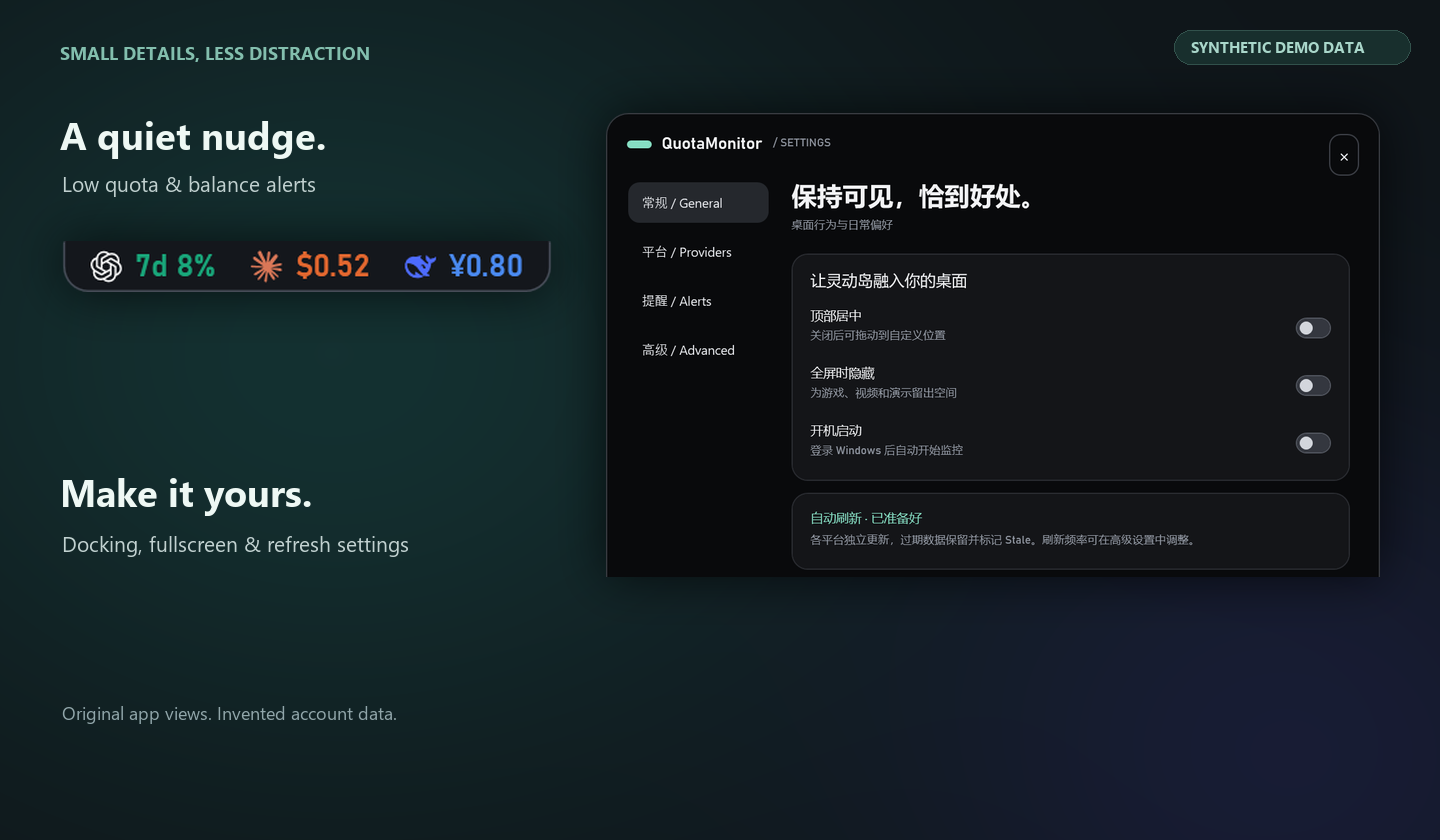
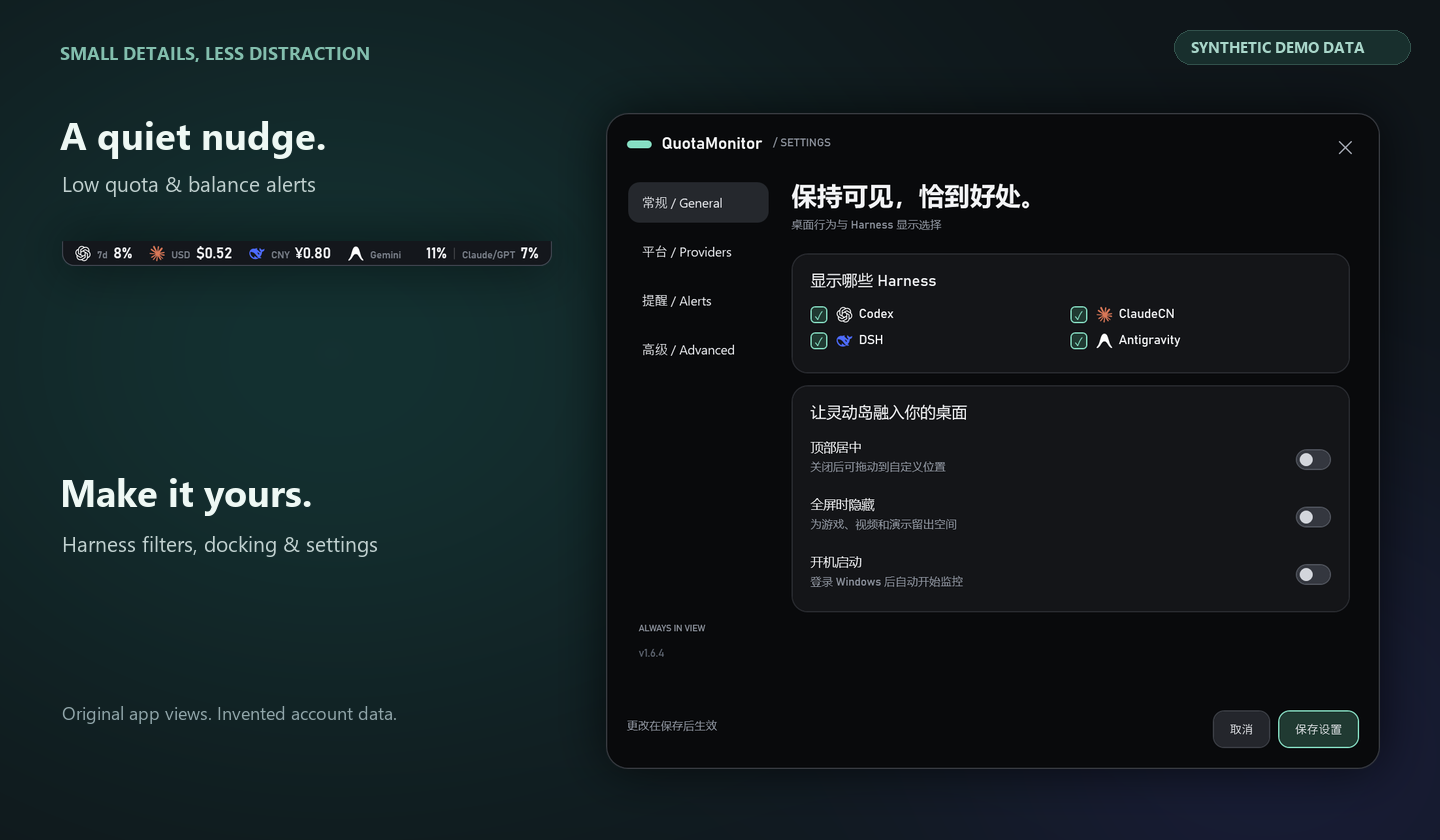
Refresh bilingual README artwork for v1.6.4

diff --git a/tools/QuotaMonitor.Showcase/Program.cs b/tools/QuotaMonitor.Showcase/Program.cs
@@ -36,19 +36,19 @@ public static class Showcase
     }
     static async Task Generate(string root,string output)
     {
-        var vm=new MonitorViewModel();var now=DateTimeOffset.UtcNow;var today=new DateOnly(2026,10,14);
+        var vm=new MonitorViewModel();var now=DateTimeOffset.UtcNow;var today=DateOnly.FromDateTime(DateTime.Now);
         var settings=new MonitorSettings{TopCenter=false,Left=50,Top=50,HideInFullscreen=false,AutoStart=false,ClaudeUserId="",CodexExecutable="codex",DshSessionRoot=""};
         foreach(var id in UsageGrid.Order){
-            vm.Providers.Add(new(new ProviderSnapshot{ProviderId=id,DisplayName=id=="codex"?"Codex":id=="claude"?"ClaudeCN":"DSH",ConnectionStatus=ConnectionStatus.Ready,
+            vm.Providers.Add(new(new ProviderSnapshot{ProviderId=id,DisplayName=MonitorViewModel.NameOf(id),ConnectionStatus=ConnectionStatus.Ready,
                 LastUpdated=now,UsageUpdated=now,RemainingPercent=72,RemainingBalance=18.50m,Currency="USD",TodayTokens=284000,TotalTokens=8600000,TodayRequests=42,TodayCost=.42m,TotalCost=12.80m,
-                InputTokens=240000,OutputTokens=44000,CurrentModel="deepseek-v4",DataSource="Synthetic showcase",
-                Windows=id=="codex"?[new("codex","Primary",28,300,now.AddHours(2)),new("codex","Weekly",38,10080,now.AddDays(3))]:[],
+                InputTokens=240000,OutputTokens=44000,CurrentModel="synthetic-model",DataSource="Synthetic showcase",
+                Windows=id=="codex"?[new("codex","Primary",28,300,now.AddHours(2)),new("codex","Weekly",38,10080,now.AddDays(3))]:id=="antigravity"?[new("gemini-weekly","Gemini",32,10080,now.AddDays(4)),new("3p-weekly","Claude/GPT",54,10080,now.AddDays(5))]:[],
                 AccountBalance=id=="dsh"?new(new([new("CNY","42.80")],[new("CNY","5.00")],now,"synthetic showcase"),DshBalanceState.Ready,null):null}));
             var lane=UsageGrid.Order.ToList().IndexOf(id);
             vm.UpdateHistory(new(){ProviderId=id,Source="Synthetic showcase",Scope="Invented daily aggregates",CostCurrency=id=="dsh"?"CNY":"USD",CoverageStart=today.AddDays(-180),
                 Days=Enumerable.Range(0,181).Select(i=>new UsageDay(today.AddDays(i-180),i%11==0?0:(long)(800*Math.Pow(1.034,i%120)*(1+(i*7+lane*13)%17)),(i*3+lane)%50,.03m*(i%9),UsageQuality.Exact,now)).ToArray()},today);
         }
-        vm.Rebuild(today);vm.SettingsCommand=vm.RefreshCommand=vm.ExitCommand=new ActionCommand(()=>{});
+        vm.Rebuild(today);vm.ApplyVisibility(settings,today);vm.SettingsCommand=vm.RefreshCommand=vm.ExitCommand=new ActionCommand(()=>{});
         var window=new IslandWindow(vm,settings,()=>{});
         typeof(IslandWindow).GetProperty("VerificationSuspendsPointer",BindingFlags.Instance|BindingFlags.NonPublic)!.SetValue(window,true);
         window.Show();await Task.Delay(350);
@@ -66,6 +66,7 @@ public static class Showcase
         vm.Codex.Update(vm.Codex.Snapshot with{RemainingPercent=12,Windows=[new("codex","Primary",88,300,now.AddHours(2)),new("codex","Weekly",92,10080,now.AddDays(3))]});
         vm.Claude.Update(vm.Claude.Snapshot with{RemainingBalance=.52m});
         vm.Dsh.Update(vm.Dsh.Snapshot with{AccountBalance=new(new([new("CNY","0.80")],[],now,"synthetic showcase"),DshBalanceState.Ready,null)});
+        vm.Antigravity.Update(vm.Antigravity.Snapshot with{Windows=[new("gemini-weekly","Gemini",89,10080,now.AddDays(4)),new("3p-weekly","Claude/GPT",93,10080,now.AddDays(5))]});
         vm.UpdateAlerts(settings,now);window.SetState(IslandState.Minimal,false);await Task.Delay(180);Capture(window,Path.Combine(output,"alerts.png"));window.Close();
         using var http=new HttpClient(new OfflineHandler());
         var store=new SettingsStore(Path.Combine(output,"empty-store"));

diff --git a/tools/compose-showcase.py b/tools/compose-showcase.py
@@ -28,17 +28,18 @@ def paste(im,shot,width,xy,crop=True):
     im.paste(shot,xy,shot);return shot.size
 hero=backdrop(1440,990);text(hero,(64,42),'QUOTAMONITOR / WINDOWS',17,'#83bfae',True);stamp(hero)
 text(hero,(64,103),'Your AI usage, at a glance.',47,'#eef8f4',True)
-text(hero,(67,171),'Codex quota  /  ClaudeCN & DSH balance  /  Daily heatmaps',21,'#a0b6b4')
+text(hero,(67,171),'Codex  /  ClaudeCN  /  DeepSeek Harness  /  Antigravity',21,'#a0b6b4')
 paste(hero,Image.open(source/'expanded.png'),1190,(125,219))
-text(hero,(66,942),'A little island. Three platforms.',23,'#deece8',True);text(hero,(1008,947),'v1.5.3  +  Bridge 1.1.0',18,'#91a6aa')
+text(hero,(66,942),'A little island. Four platforms.',23,'#deece8',True);text(hero,(1008,947),'v1.6.4  +  Bridge 1.2.0',18,'#91a6aa')
 hero.save(out/'overview.png')
 details=backdrop(1440,840);stamp(details);text(details,(60,40),'SMALL DETAILS, LESS DISTRACTION',18,'#83bfae',True)
 text(details,(60,109),'A quiet nudge.',38,'#eef8f4',True);text(details,(62,169),'Low quota & balance alerts',21)
 paste(details,Image.open(source/'alerts.png'),490,(62,241))
-text(details,(60,466),'Make it yours.',38,'#eef8f4',True);text(details,(62,529),'Docking, fullscreen & refresh settings',21)
+text(details,(60,466),'Make it yours.',38,'#eef8f4',True);text(details,(62,529),'Harness filters, docking & settings',21)
 text(details,(62,700),'Original app views. Invented account data.',18,'#91a6aa')
-# Crop only the genuine General settings panel, omitting unused whitespace/old static footer.
-settings=Image.open(source/'settings.png').crop((0,0,1185,710))
+# Keep the complete current Settings window, including filters and version.
+settings=Image.open(source/'settings.png').convert('RGBA')
+settings=settings.crop(settings.getbbox())
 paste(details,settings,774,(606,113),False)
 details.save(out/'details.png')
 base=backdrop(1200,900);text(base,(49,31),'A LITTLE ISLAND, WHEN YOU NEED IT.',18,'#83bfae',True);stamp(base)
@@ -47,8 +48,8 @@ for index,path in enumerate(sorted((source/'frames').glob('*.png'))):
     im=base.copy();active=0 if index<25 or index>=115 else 1 if index<55 else 2
     for i,label in enumerate(labels):text(im,(49+i*220,100),label,25,'#e6f6ef' if i==active else '#617977',True)
     # Fixed source origin keeps the island centered during production animation.
-    shot=Image.open(path).convert('RGBA');shot=shot.resize((1080,shot.height),Image.Resampling.LANCZOS)
-    im.paste(shot,(60,197),shot);text(im,(49,850),'Actual WPF morph · Synthetic demo data',18,'#a2b9b4')
+    shot=Image.open(path).convert('RGBA');shot=shot.resize((1080,round(shot.height*1080/shot.width)),Image.Resampling.LANCZOS)
+    im.paste(shot,(60,197),shot);text(im,(49,850),'v1.6.4 WPF morph · Synthetic demo data',18,'#a2b9b4')
     frames.append(im)
 # One global palette reduces frame-to-frame color flicker; no metadata/comments.
 palette=hero.resize((360,235)).quantize(colors=240)

diff --git a/docs/media/PROVENANCE.md b/docs/media/PROVENANCE.md
@@ -1,15 +1,15 @@
 # Public showcase provenance
 
-Created on 2026-10-14 for QuotaMonitor **1.5.3**, DSH Balance Bridge **1.1.0**.
+Created on 2026-10-18 from QuotaMonitor **1.6.4** views, DSH Balance Bridge **1.2.0**.
 
 | File | Contents |
 | --- | --- |
-| overview.png | Actual Expanded WPF view; invented quota, balances and 26-week history |
+| overview.png | Actual four-Harness Expanded WPF view; invented quota, balances and 26-week history |
 | island.gif | 150 sampled frames of the production Minimal → Collapsed → Expanded → Minimal morph |
-| details.png | Actual low-balance Minimal view and cropped General Settings view |
+| details.png | Actual low-balance Minimal view and complete General Settings view with Harness filters and current version |
 
 Every public frame includes **SYNTHETIC DEMO DATA**. The figures (72%, $18.50,
-¥42.80 and alert values) and all daily aggregates are deliberately invented.
+¥42.80, Antigravity 68% / 46% and alert values) and all daily aggregates are deliberately invented.
 No internal screenshots were reused. All images come from rendering the WPF
 visual tree, with a decorative background added afterward; there is no desktop
 capture, account API, production configuration/history read, or user identity.
@@ -19,7 +19,7 @@ production resources and views without starting QuotaMonitor.App or adapters.
 It disables HTTP, supplies an empty Settings store and a random nonexistent
 credential target, and disables startup inspection. [Composition script](../../tools/compose-showcase.py)
 requires Pillow and installed Segoe UI fonts; no font files are redistributed.
-The Settings panel is cropped for presentation, without changing the view.
+The complete Settings panel is resized for presentation, without changing the view.
 
 The GIF samples the real morph with 40 ms requested delays. Playback is a visual
 demonstration, not a performance measurement. Identical hold frames are coalesced

diff --git a/README.md b/README.md
@@ -6,9 +6,9 @@
 <p align="center"><a href="https://github.com/asdstrind/QuotaMonitor/releases/latest"><strong>Download for Windows ↗</strong></a><br><sub>Windows 11 x64 · Bundled runtime, just unzip and run.</sub></p>
 
 <p align="center"><img src="docs/media/overview.png" width="1000" alt="QuotaMonitor expanded view and heatmap — synthetic demo data"></p>
-<p align="center">Codex quota · ClaudeCN & DeepSeek Harness balance and usage<br>Usage history heatmaps · Low-balance alerts · Smooth animations</p>
+<p align="center">Codex quota · ClaudeCN & DeepSeek Harness balance and usage · Antigravity weekly quotas<br>Usage history heatmaps · Harness filters · Low-balance alerts · Smooth animations</p>
 
-<p align="center">v1.6.4 · Antigravity Gemini &amp; Claude/GPT weekly quotas · Harness filters<br><sub>Demo images show v1.5.3 with synthetic data.</sub></p>
+<p align="center"><sub>v1.6.4 · Synthetic demo data</sub></p>
 
 <p align="center"><img src="docs/media/island.gif" width="1000" alt="Minimal to Collapsed to Expanded animation — synthetic demo data"></p>
 <p align="center"><img src="docs/media/details.png" width="1000" alt="Low-balance alerts and Settings — synthetic demo data"></p>

diff --git a/README.zh-CN.md b/README.zh-CN.md
@@ -6,9 +6,9 @@
 <p align="center"><a href="https://github.com/asdstrind/QuotaMonitor/releases/latest"><strong>下载 Windows 版 ↗</strong></a><br><sub>Windows 11 x64 · 自带运行时，解压即可运行。</sub></p>
 
 <p align="center"><img src="docs/media/overview.png" width="1000" alt="QuotaMonitor expanded view and heatmap — synthetic demo data"></p>
-<p align="center">Codex 配额 · ClaudeCN 与 DeepSeek Harness 余额和用量<br>历史热力图 · 余额预警 · 平滑动画</p>
+<p align="center">Codex 配额 · ClaudeCN 与 DeepSeek Harness 余额和用量 · Antigravity 每周限额<br>历史热力图 · 平台显示筛选 · 余额预警 · 平滑动画</p>
 
-<p align="center">v1.6.4 · Antigravity Gemini 与 Claude/GPT 两项每周限额 · 平台显示筛选<br><sub>展示图为 v1.5.3 合成数据演示。</sub></p>
+<p align="center"><sub>v1.6.4 · 合成数据演示</sub></p>
 
 <p align="center"><img src="docs/media/island.gif" width="1000" alt="Minimal to Collapsed to Expanded animation — synthetic demo data"></p>
 <p align="center"><img src="docs/media/details.png" width="1000" alt="Low-balance alerts and Settings — synthetic demo data"></p>
